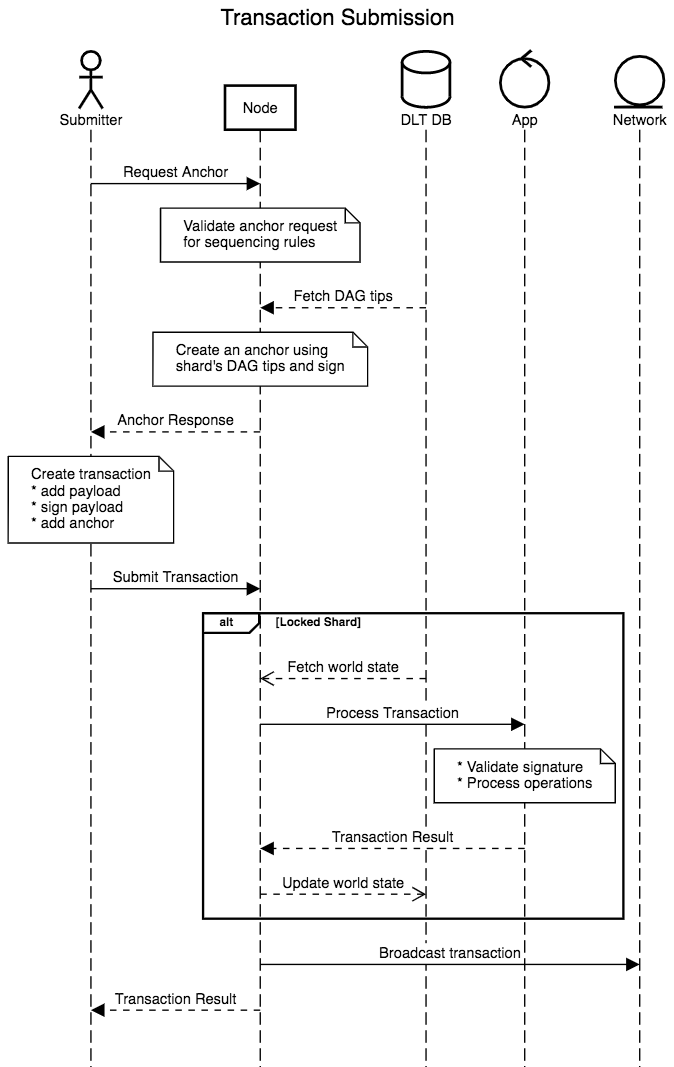
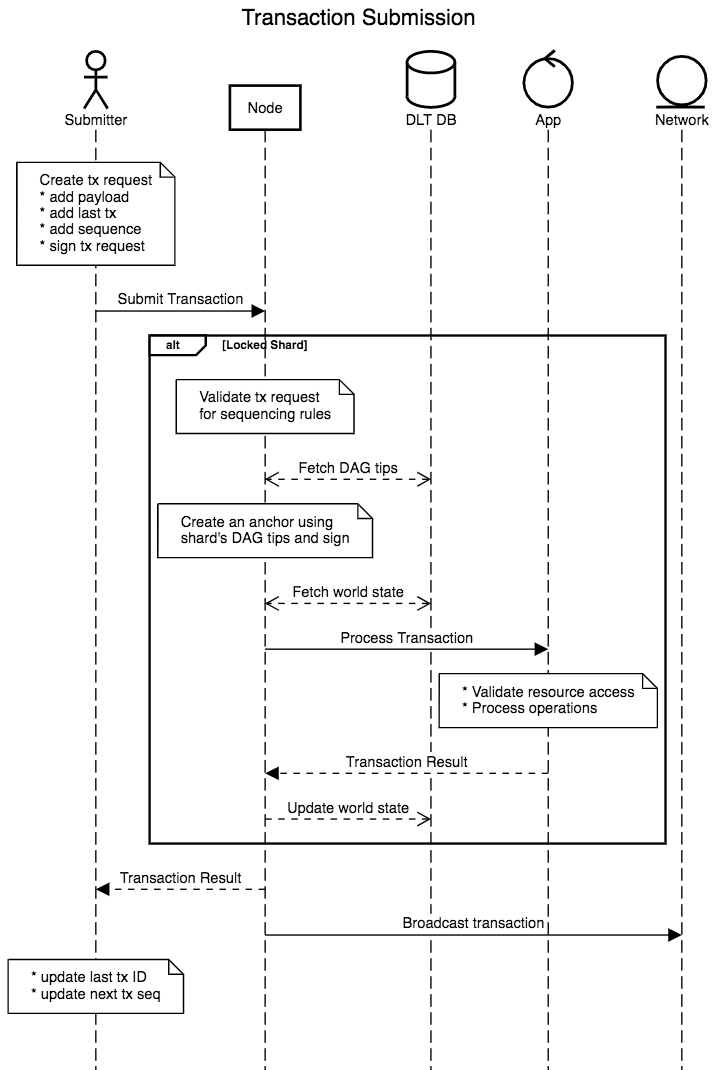
Updated transaction submission flow for Issue #51 https://github.com/trust-net/dag-lib-go/issues/51

diff --git a/README.md b/README.md
@@ -50,7 +50,7 @@ This document intends to explain design philosophy and rationale behind Trust-Ne
 |*Application Model*|Native (full control) apps|EVM bytecode based DApp|
 |*Stack Model*|Stack as a library, application agnostic|Stack as the controller for smart contract apps|
 
-> We are only comparing against protocols that have symmetric nodes, i.e. they do not use a "privileged" node or co-ordinator based solution for bypassing throughput limitations. Intention here is to keep the network model independent of any "co-ordinator" or any other special purpose nodes that are typically used to finalize transactions on non traditional network models. Such a choice results in weaker network security by limiting finalizingßrole to a limited number of "privileged" nodes. With Trust-Net, all nodes in the network are equally capable and have equal role in the protocol security.
+> We are only comparing against protocols that have symmetric nodes, i.e. they do not use a "privileged" node or co-ordinator based solution for bypassing throughput limitations. Intention here is to keep the network model independent of any "co-ordinator" or any other special purpose nodes that are typically used to finalize transactions on non traditional network models. Such a choice results in weaker network security by assigning critical role to a limited number of "privileged" nodes. With Trust-Net, all nodes in the network are equally capable and have equal role in the protocol security.
 
 ## DLT Stack
 Key distinction and reasoning behind Trust-Net protocol is to invert the role of protocol in an application. Unlike the traditional blockchain protocols where stack is the controller for light weight applications, Trust-Net is designed to build DLT capability into traditional enterprise applications. This means, ability to instantiate and use DLT as a Stack into application, just like application instantiates any other protocol stack for its needs (e.g. HTTP, SIP, ...).
